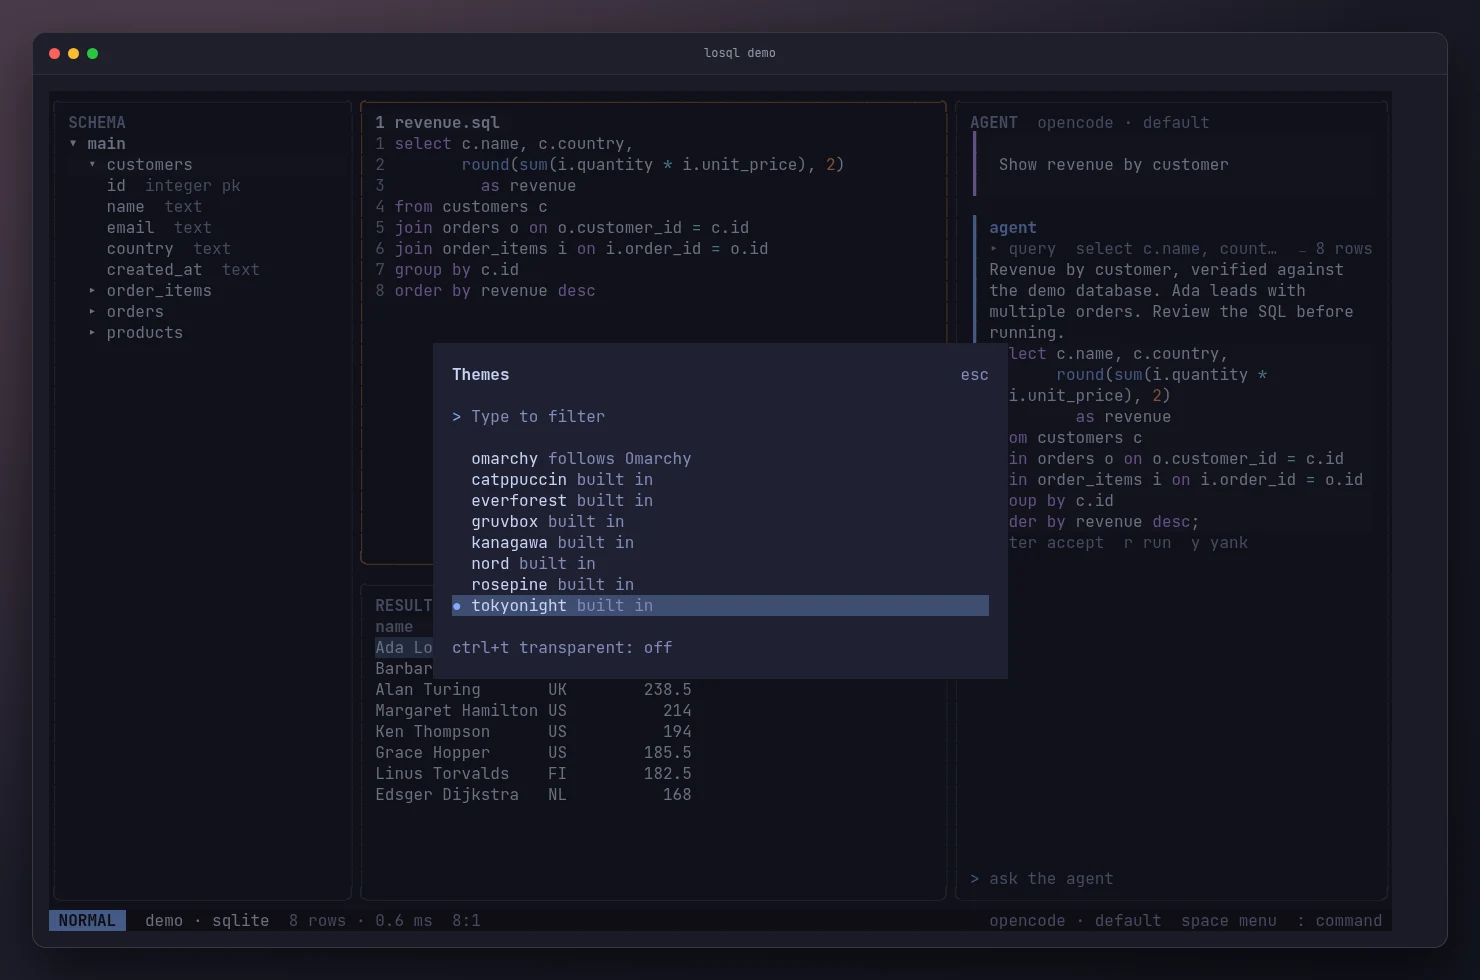
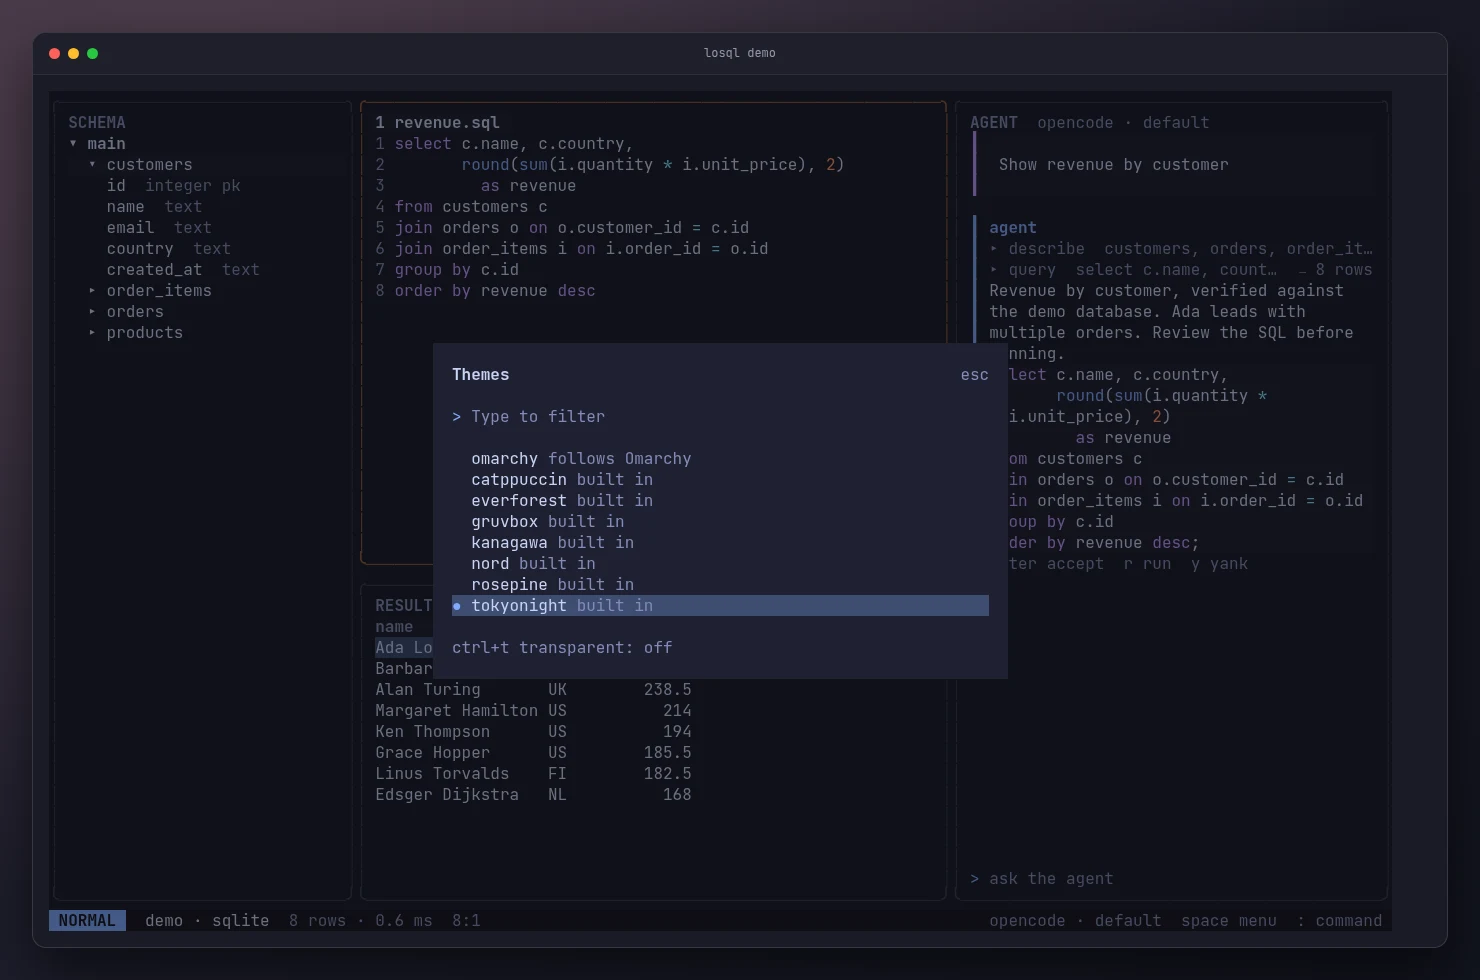
fix(landing): capture full agent sequence

Changed region(s): [[0.6527, 0.2449, 0.9324, 0.5816]]

diff --git a/landing/scripts/capture-media.ts b/landing/scripts/capture-media.ts
@@ -106,7 +106,20 @@ try {
   const revenue = `select c.name, c.country,\n       round(sum(i.quantity * i.unit_price), 2)\n         as revenue\nfrom customers c\njoin orders o on o.customer_id = c.id\njoin order_items i on i.order_id = o.id\ngroup by c.id\norder by revenue desc;`;
   // These executables never connect to a provider. OpenCode's actual stream
   // envelope wraps protocol actions consumed by the application's real loop.
-  const fixture = `#!${process.execPath}\nconst args = process.argv.slice(2);\nif(args.includes('--version')) { console.log('1.0.0 capture-fixture'); process.exit(0); }\nif(args[0] === 'models') { console.log('default'); process.exit(0); }\nconst prompt = await Bun.stdin.text();\nconst step = prompt.includes('<result>');\nawait Bun.sleep(step ? 1600 : 1000);\nconst action = step ? {action:'answer',message:'Revenue by customer, verified against the demo database. Ada leads with multiple orders. Review the SQL before running.',sql:${JSON.stringify(revenue)}} : {action:'query',sql:'select c.name, count(o.id) as orders from customers c join orders o on o.customer_id = c.id group by c.id',why:'Check customer orders before proposing revenue SQL'};\nconsole.log(JSON.stringify({type:'text',part:{text:JSON.stringify(action)}}));\n`;
+  const fixture = `#!${process.execPath}
+const args = process.argv.slice(2);
+if(args.includes('--version')) { console.log('1.0.0 capture-fixture'); process.exit(0); }
+if(args[0] === 'models') { console.log('default'); process.exit(0); }
+const prompt = await Bun.stdin.text();
+const completed = (prompt.match(/<result>/g) ?? []).length;
+await Bun.sleep(completed ? 1600 : 1000);
+const actions = [
+  {action:'describe',relations:['customers','orders','order_items']},
+  {action:'query',sql:'select c.name, count(o.id) as orders from customers c join orders o on o.customer_id = c.id group by c.id',why:'Check customer orders before proposing revenue SQL'},
+  {action:'answer',message:'Revenue by customer, verified against the demo database. Ada leads with multiple orders. Review the SQL before running.',sql:${JSON.stringify(revenue)}}
+];
+console.log(JSON.stringify({type:'text',part:{text:JSON.stringify(actions[Math.min(completed, actions.length - 1)])}}));
+`;
   for (const name of ["claude", "codex", "opencode", "antigravity"]) {
     await writeFile(join(work, "bin", name), fixture); await chmod(join(work, "bin", name), 0o755);
   }
@@ -134,7 +147,8 @@ try {
   await keys("Space", "a", "a"); await capture("agent-open", "AGENT");
   await text("Show revenue by customer");
   await capture("agent-question", "Show revenue"); await keys("Enter");
-  await waitFor("query"); await capture("agent-step", "query");
+  await capture("agent-describe", "describe");
+  await capture("agent-step", "query");
   await waitFor("Revenue by customer"); await keys("Escape");
   await capture("agent", "enter accept");
   await focus("h"); await capture("hero", "8 rows");
@@ -188,7 +202,7 @@ pre{margin:0;padding:16px;font:16px/21px mono;font-variant-ligatures:none;white-
   const sequences: Record<string, string[]> = {
     "workflow-tour": ["hero", "editor", "json", "agent", "themes", "omarchy"],
     "recording-vim": ["hero", "editor", "agent-run", "json", "record", "zoom"],
-    "recording-agent": ["agent-open", "agent-question", "agent-step", "agent", "agent-accepted", "agent-run"],
+    "recording-agent": ["agent-open", "agent-question", "agent-describe", "agent-step", "agent", "agent-accepted", "agent-run"],
     "recording-omarchy": ["themes", "omarchy", "omarchy-transparent", "catppuccin", "nord", "tokyonight"],
   };
   for (const [name, frames] of Object.entries(sequences)) {

diff --git a/landing/tests/media.test.ts b/landing/tests/media.test.ts
@@ -2,6 +2,7 @@ import { describe, expect, test } from "bun:test";
 import { existsSync, readFileSync, statSync } from "node:fs";
 import { createHash } from "node:crypto";
 import { join } from "node:path";
+import { parseAction } from "../../src/core/agent/protocol";
 
 const ROOT = join(import.meta.dir, "..", "..");
 const MEDIA_DIR = join(ROOT, "landing", "public", "media");
@@ -42,6 +43,29 @@ const REQUIRED_FONTS = [
 ];
 
 describe("landing media and fonts", () => {
+  test("capture provider describes relations, queries, then answers", async () => {
+    const source = readFileSync(join(ROOT, "landing/scripts/capture-media.ts"), "utf8");
+    const template = source.match(/const fixture = (`[^]*?`);\n/)!;
+    const fixture = new Function("process", "revenue", `return ${template[1]}`)(process, "select 1;");
+    let prompt = 'Available actions: {"action":"describe"}, {"action":"query"}, {"action":"answer"}\nuser: Show revenue by customer';
+    for (const expected of ["describe", "query", "answer"]) {
+      const child = Bun.spawn([process.execPath, "-e", fixture.replace(/^#![^\n]*\n/, "")], {
+        stdin: new Blob([prompt]), stdout: "pipe", stderr: "pipe",
+      });
+      const output = await new Response(child.stdout).text();
+      expect(await child.exited).toBe(0);
+      const reply = JSON.parse(output).part.text;
+      const parsed = parseAction(reply);
+      expect(parsed.ok).toBe(true);
+      if (!parsed.ok) throw new Error(parsed.reason);
+      expect(parsed.action.action).toBe(expected);
+      if (parsed.action.action === "describe") {
+        expect(parsed.action.relations).toEqual(["customers", "orders", "order_items"]);
+      }
+      prompt += `\nagent: ${reply}\n<result>Completed ${expected}</result>`;
+    }
+  }, 10000);
+
   test("self-hosted WOFF2 fonts and OFL licenses exist", () => {
     for (const file of REQUIRED_FONTS) {
       const full = join(FONTS_DIR, file);
